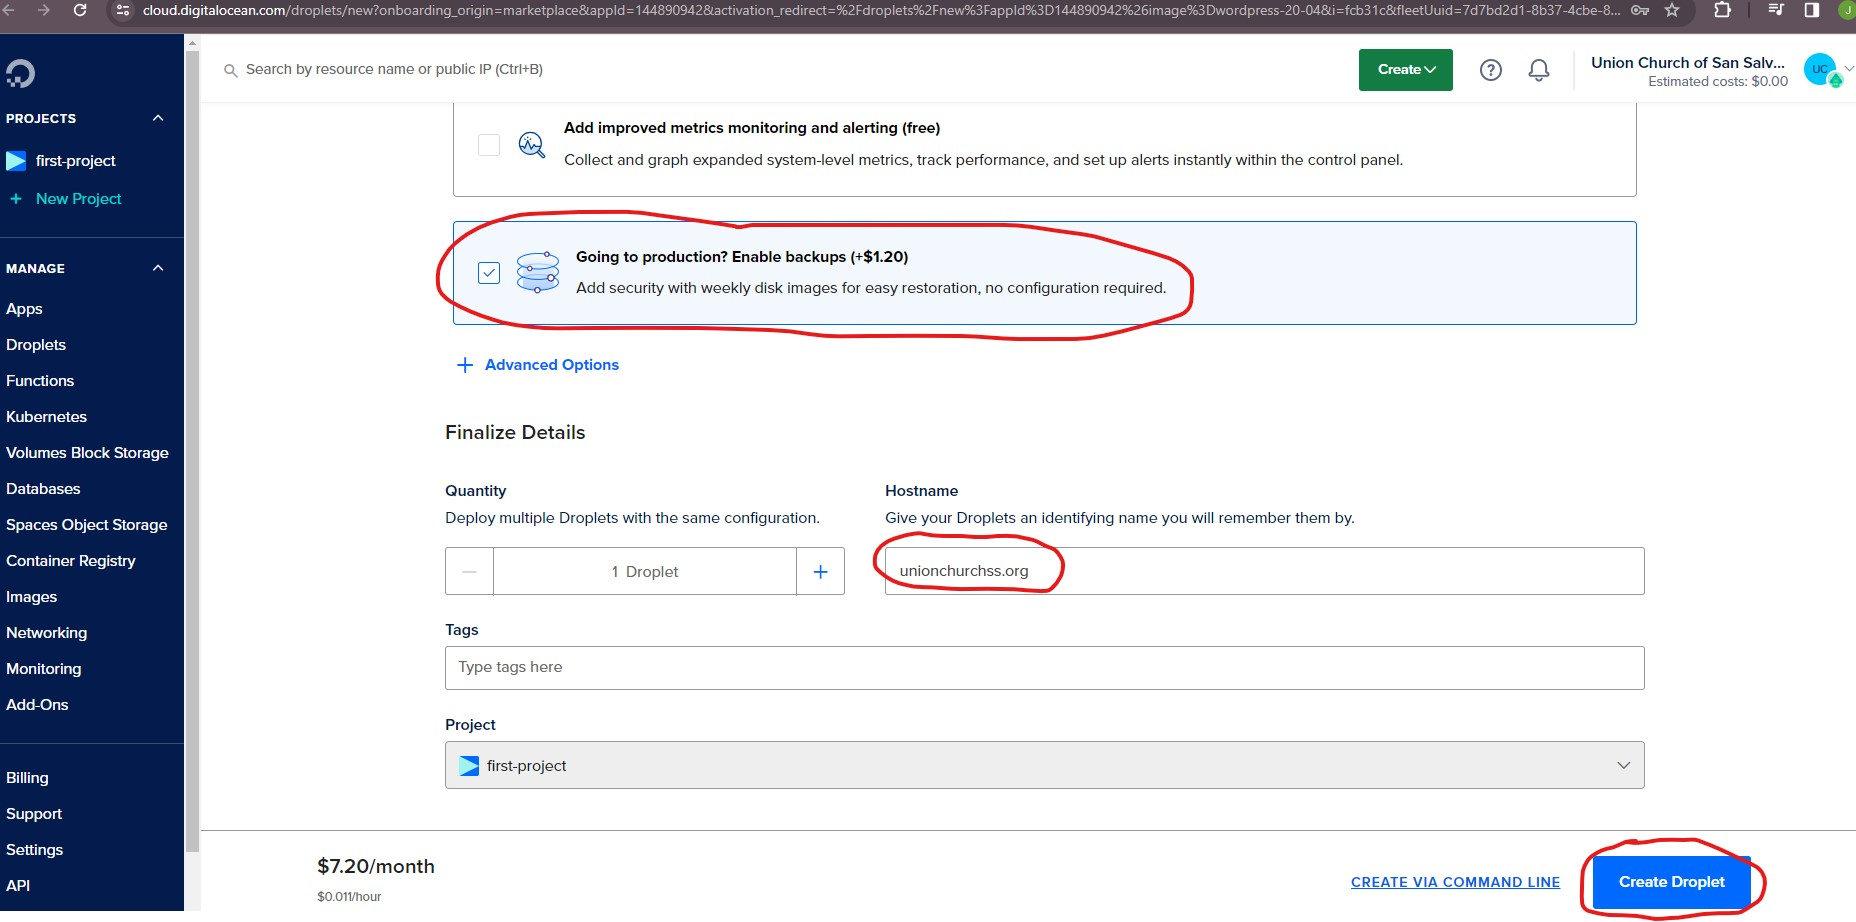
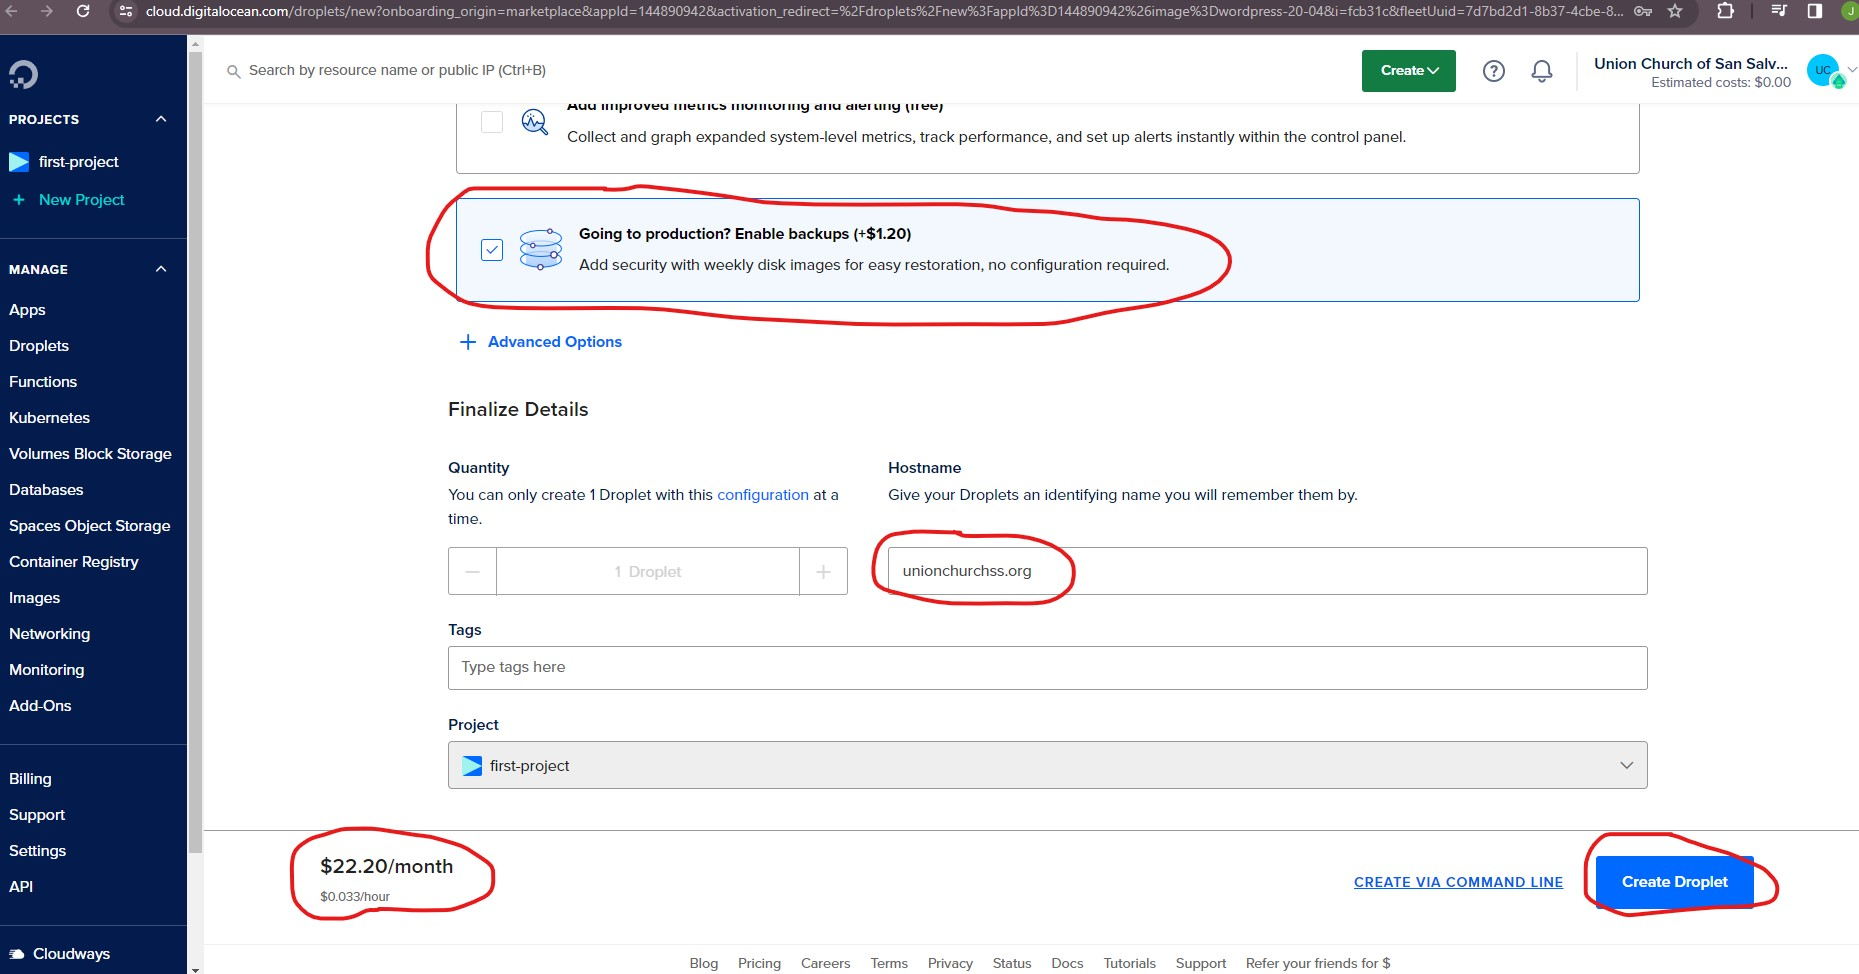
Create Droplet.

diff --git a/blog/2023/12/10/05/59/book-info-20231210-0559.php b/blog/2023/12/10/05/59/book-info-20231210-0559.php
@@ -1,4 +1,4 @@
 <?php
   $index->content .= 
-           "<p>The website unionchurchss.org was hosted on InMotion Hosting. According to <a href=\"https://whois.domaintools.com/unionchurchss.org\">https://whois.domaintools.com/unionchurchss.org</a>, there were \"344 other sites hosted on this server\":</p><div><img src=\"/blog/2023/12/10/05/59/img/inMotionHostingSharedServer.jpg\" alt=\"InMotion Hosting shared server\" width=\"504\" height=\"886\"></div><p>My first step was to use FTP to download WordPress source code and content files hosted on the InMotion Hosting server. I went to my cPanel account at <a href=\"https://secure261.inmotionhosting.com:2083/\">https://secure261.inmotionhosting.com:2083/</a> to obtain my FTP credentials:</p><div><img src=\"/blog/2023/12/10/05/59/img/cPanelLoginScreen.jpg\" alt=\"cPanel login screen\" width=\"546\" height=\"622\"></div><p>This was the first screen after a successful cPanel login:</p><div><img src=\"/blog/2023/12/10/05/59/img/cPanelFirstScreen.jpg\" alt=\"cPanel first screen\" width=\"1851\" height=\"965\"></div><p>I scrolled down to find the FTP Accounts link:</p><div><img src=\"/blog/2023/12/10/05/59/img/ftpAccountsLinkFromcPanel.jpg\" alt=\"FTP Accounts link from cPanel\" width=\"1215\" height=\"976\"></div><p>I found the FTP Username Account that I needed to connect to the server using FTP:</p><div><img src=\"/blog/2023/12/10/05/59/img/ftpUsernameAccountFound.jpg\" alt=\"FTP Username Account found\" width=\"946\" height=\"418\"></div><p>The information above does not specify Host nor the password to connect via FTP. But I found the password from my records of when I created the InMotion Hosting account. For the Host value, I could use either <span class=\"cod\">173.231.209.31</span> (the shared IP address) or <span class=\"cod\">secure261.inmotionhosting.com</span>. That was all I needed to connect to the server using FTP via FileZilla:</p><div><img src=\"/blog/2023/12/10/05/59/img/connectUsingFTPViaFileZilla.jpg\" alt=\"Connect using FTP via FileZilla\" width=\"703\" height=\"97\"></div><p>I clicked OK to the Unknown certificate pop-up message:</p><div><img src=\"/blog/2023/12/10/05/59/img/unknownCertificateFileZillaConnection.jpg\" alt=\"Unknown certificate FileZilla connection\" width=\"705\" height=\"919\"></div><p>My WordPress files on the server were displayed under the <span class=\"cod\">/unionchurchss.org</span> folder:</p><div><img src=\"/blog/2023/12/10/05/59/img/wordPressFilesOnServer.jpg\" alt=\"WordPress files on server\" width=\"1296\" height=\"783\"></div><p>20406 files were transferred successfully:</p><div><img src=\"/blog/2023/12/10/05/59/img/successfulTransfers.jpg\" alt=\"Successful transfers\" width=\"1915\" height=\"1028\"></div><p>The process resulted in 310 failed transfers:</p><div><img src=\"/blog/2023/12/10/05/59/img/failedTransfers.jpg\" alt=\"Successful transfers\" width=\"1919\" height=\"1029\"></div><p>All of the failed transfers are from this directory: <span class=\"cod\">unionchurchss.org&bsol;wp-content&bsol;plugins&bsol;boldgrid-backup-premium&bsol;vendor&bsol;google&bsol;apiclient-services&bsol;src&bsol;Google&bsol;Service&bsol;</span>. I could safely ignore those failed transfers because that was not going to affect what I needed for the functionality of my website.</p><p>The 20,406 downloaded files, together have a size of 5.15 GB:</p><div><img src=\"/blog/2023/12/10/05/59/img/showSizeOfDownloadedFiles.jpg\" alt=\"Show size of downloaded files\" width=\"466\" height=\"580\"></div><p>My next step was to download the MySQL database. From cPanel, I clicked the phpMyAdmin link:</p><div><img src=\"/blog/2023/12/10/05/59/img/clickPhpMyAdmin.jpg\" alt=\"Click phpMyAdmin\" width=\"1053\" height=\"809\"></div><p>That took me to <a href=\"https://secure261.inmotionhosting.com:2083/cpsess9515791293/3rdparty/phpMyAdmin/index.php\">https://secure261.inmotionhosting.com:2083/cpsess9515791293/3rdparty/phpMyAdmin/index.php</a>, where my database was listed as <span class=\"cod\">unionc10_wp96857</span>:</p><div><img src=\"/blog/2023/12/10/05/59/img/showPhpMyAdminInterface.jpg\" alt=\"Show phpMyAdmin interface\" width=\"1913\" height=\"983\"></div><p>This is the list of tables in the database:</p><div><img src=\"/blog/2023/12/10/05/59/img/databaseListOfTables.jpg\" alt=\"Database list of tables\" width=\"213\" height=\"554\"></div><p>I clicked the Databases tab and after that, I clicked the database that I wanted to export:</p><div><img src=\"/blog/2023/12/10/05/59/img/clickDatabaseToExport.jpg\" alt=\"Click database to export\" width=\"1197\" height=\"558\"></div><p>Then I clicked the Export tab:</p><div><img src=\"/blog/2023/12/10/05/59/img/exportDatabase.jpg\" alt=\"Export database\" width=\"1306\" height=\"946\"></div><p>I used the <span class=\"cod\">Quick - display only the minimal options</span> export method and <span class=\"cod\">SQL</span> as the output format. Then I clicked <span class=\"cod\">Export</span>:</p><div><img src=\"/blog/2023/12/10/05/59/img/finalStepsToExportDatabase.jpg\" alt=\"Final steps to export database\" width=\"1721\" height=\"569\"></div><p>The database was downloaded successfully as a <span class=\"cod\">.sql</span> file. Its size was 5.37 MB:</p><div><img src=\"/blog/2023/12/10/05/59/img/databaseDownloadedSuccessfully.jpg\" alt=\"Database downloaded successfully\" width=\"564\" height=\"644\"></div><p>I visited <a href=\"https://digitalocean.com\">https://digitalocean.com</a> and from my account, I clicked <span class=\"cod\">Create a Team</span>:</p><div><img src=\"/blog/2023/12/10/05/59/img/createATeamOnDigitalOcean.jpg\" alt=\"Create a Team\" width=\"268\" height=\"401\"></div><p>I provided the new team information and clicked <span class=\"cod\">Continue</span>:</p><div><img src=\"/blog/2023/12/10/05/59/img/createNewTeam.jpg\" alt=\"Create new team\" width=\"719\" height=\"631\"></div><p>A verification link was sent to the email address I provided:</p><div><img src=\"/blog/2023/12/10/05/59/img/verificationLinkSentToMyEmail.jpg\" alt=\"Create a Team\" width=\"714\" height=\"691\"></div><p>I received a welcome email:</p><div><img src=\"/blog/2023/12/10/05/59/img/digitalOceanWelcomeEmail.jpg\" alt=\"DigitalOcean welcome email\" width=\"1008\" height=\"834\"></div><p>I received a second email with a link to verify my email:</p><div><img src=\"/blog/2023/12/10/05/59/img/verifyEmail.jpg\" alt=\"Verify email\" width=\"1228\" height=\"200\"></div><p>Clicking the link to verify my email address took me to the <span class=\"cod\">Add Payment Method</span> section, where I provided my credit card information.</p><div><img src=\"/blog/2023/12/10/05/59/img/addPaymentMethod.jpg\" alt=\"Add Payment Method\" width=\"1358\" height=\"851\"></div><p>The last step was optional and I decided to skip it for now:</p><div><img src=\"/blog/2023/12/10/05/59/img/inviteMembers.jpg\" alt=\"Invite Members\" width=\"1360\" height=\"788\"></div><p>I was charged $1 as a pre-authorization \"hold\" charge on my card used to verify my card, which will be released within a day or two:</p><div><img src=\"/blog/2023/12/10/05/59/img/digitalOceanVerificationCharge.jpg\" alt=\"Invite Members\" width=\"482\" height=\"29\"></div><p>I visited <a href=\"https://marketplace.digitalocean.com/apps/wordpress\">https://marketplace.digitalocean.com/apps/wordpress</a> and clicked <span class=\"cod\">Create WordPress Droplet</span>:</p><div><img src=\"/blog/2023/12/10/05/59/img/createWordPressDroplet.jpg\" alt=\"Create WordPress Droplet\" width=\"1801\" height=\"963\"></div><p>I chose <span class=\"cod\">Toronto</span> as the Region:</p><div><img src=\"/blog/2023/12/10/05/59/img/chooseTorontoRegion.jpg\" alt=\"Choose Toronto Region\" width=\"1856\" height=\"968\"></div><p>I scrolled down and in the <span class=\"cod\">Choose an image</span> section, I added a MySQL Managed Database for an additional $15.00/month:</p><div><img src=\"/blog/2023/12/10/05/59/img/addMySQLManagedDatabase.jpg\" alt=\"Add MySQL Managed Database\" width=\"1860\" height=\"944\"></div><p>I scrolled down and in the <span class=\"cod\">CPU options</span> section, I chose <span class=\"cod\">Regular Disk type: SSD</span> and <span class=\"cod\">$6 /mo | $0.009 /hour (1 GB / 1 CPU | 25 GB SSD Disk | 1000 GB transfer)</span>:</p><div><img src=\"/blog/2023/12/10/05/59/img/choose6USDOption.jpg\" alt=\"Choose Toronto Region\" width=\"1857\" height=\"941\"></div><p>I scrolled down to the <span class=\"cod\">Choose Authentication Method</span> section and chose <span class=\"cod\">Password - Connect to your Droplet as the \"root\" user via password</span>, where I created my <span class=\"cod\">root</span> password:</p><div><img src=\"/blog/2023/12/10/05/59/img/createRootPassword.jpg\" alt=\"Create root password\" width=\"1857\" height=\"949\"></div><p>I enabled backups for an additional $1.20/month because I was going to production, and gave my Droplet an identifying name that I will remember it by: <span class=\"cod\">unionchurchss.org</span>. Finally, I clicked <span class=\"cod\">Create Droplet</span>:</p><div><img src=\"/blog/2023/12/10/05/59/img/enableBackupsAndCreateDroplet.jpg\" alt=\"Enable backups and create Droplet\" width=\"1856\" height=\"922\"></div><div>Published: 5:59 AM GMT · Dec 10, 2023</div>\n";
+           "<p>The website unionchurchss.org was hosted on InMotion Hosting. According to <a href=\"https://whois.domaintools.com/unionchurchss.org\">https://whois.domaintools.com/unionchurchss.org</a>, there were \"344 other sites hosted on this server\":</p><div><img src=\"/blog/2023/12/10/05/59/img/inMotionHostingSharedServer.jpg\" alt=\"InMotion Hosting shared server\" width=\"504\" height=\"886\"></div><p>My first step was to use FTP to download WordPress source code and content files hosted on the InMotion Hosting server. I went to my cPanel account at <a href=\"https://secure261.inmotionhosting.com:2083/\">https://secure261.inmotionhosting.com:2083/</a> to obtain my FTP credentials:</p><div><img src=\"/blog/2023/12/10/05/59/img/cPanelLoginScreen.jpg\" alt=\"cPanel login screen\" width=\"546\" height=\"622\"></div><p>This was the first screen after a successful cPanel login:</p><div><img src=\"/blog/2023/12/10/05/59/img/cPanelFirstScreen.jpg\" alt=\"cPanel first screen\" width=\"1851\" height=\"965\"></div><p>I scrolled down to find the FTP Accounts link:</p><div><img src=\"/blog/2023/12/10/05/59/img/ftpAccountsLinkFromcPanel.jpg\" alt=\"FTP Accounts link from cPanel\" width=\"1215\" height=\"976\"></div><p>I found the FTP Username Account that I needed to connect to the server using FTP:</p><div><img src=\"/blog/2023/12/10/05/59/img/ftpUsernameAccountFound.jpg\" alt=\"FTP Username Account found\" width=\"946\" height=\"418\"></div><p>The information above does not specify Host nor the password to connect via FTP. But I found the password from my records of when I created the InMotion Hosting account. For the Host value, I could use either <span class=\"cod\">173.231.209.31</span> (the shared IP address) or <span class=\"cod\">secure261.inmotionhosting.com</span>. That was all I needed to connect to the server using FTP via FileZilla:</p><div><img src=\"/blog/2023/12/10/05/59/img/connectUsingFTPViaFileZilla.jpg\" alt=\"Connect using FTP via FileZilla\" width=\"703\" height=\"97\"></div><p>I clicked OK to the Unknown certificate pop-up message:</p><div><img src=\"/blog/2023/12/10/05/59/img/unknownCertificateFileZillaConnection.jpg\" alt=\"Unknown certificate FileZilla connection\" width=\"705\" height=\"919\"></div><p>My WordPress files on the server were displayed under the <span class=\"cod\">/unionchurchss.org</span> folder:</p><div><img src=\"/blog/2023/12/10/05/59/img/wordPressFilesOnServer.jpg\" alt=\"WordPress files on server\" width=\"1296\" height=\"783\"></div><p>20406 files were transferred successfully:</p><div><img src=\"/blog/2023/12/10/05/59/img/successfulTransfers.jpg\" alt=\"Successful transfers\" width=\"1915\" height=\"1028\"></div><p>The process resulted in 310 failed transfers:</p><div><img src=\"/blog/2023/12/10/05/59/img/failedTransfers.jpg\" alt=\"Successful transfers\" width=\"1919\" height=\"1029\"></div><p>All of the failed transfers are from this directory: <span class=\"cod\">unionchurchss.org&bsol;wp-content&bsol;plugins&bsol;boldgrid-backup-premium&bsol;vendor&bsol;google&bsol;apiclient-services&bsol;src&bsol;Google&bsol;Service&bsol;</span>. I could safely ignore those failed transfers because that was not going to affect what I needed for the functionality of my website.</p><p>The 20,406 downloaded files, together have a size of 5.15 GB:</p><div><img src=\"/blog/2023/12/10/05/59/img/showSizeOfDownloadedFiles.jpg\" alt=\"Show size of downloaded files\" width=\"466\" height=\"580\"></div><p>My next step was to download the MySQL database. From cPanel, I clicked the phpMyAdmin link:</p><div><img src=\"/blog/2023/12/10/05/59/img/clickPhpMyAdmin.jpg\" alt=\"Click phpMyAdmin\" width=\"1053\" height=\"809\"></div><p>That took me to <a href=\"https://secure261.inmotionhosting.com:2083/cpsess9515791293/3rdparty/phpMyAdmin/index.php\">https://secure261.inmotionhosting.com:2083/cpsess9515791293/3rdparty/phpMyAdmin/index.php</a>, where my database was listed as <span class=\"cod\">unionc10_wp96857</span>:</p><div><img src=\"/blog/2023/12/10/05/59/img/showPhpMyAdminInterface.jpg\" alt=\"Show phpMyAdmin interface\" width=\"1913\" height=\"983\"></div><p>This is the list of tables in the database:</p><div><img src=\"/blog/2023/12/10/05/59/img/databaseListOfTables.jpg\" alt=\"Database list of tables\" width=\"213\" height=\"554\"></div><p>I clicked the Databases tab and after that, I clicked the database that I wanted to export:</p><div><img src=\"/blog/2023/12/10/05/59/img/clickDatabaseToExport.jpg\" alt=\"Click database to export\" width=\"1197\" height=\"558\"></div><p>Then I clicked the Export tab:</p><div><img src=\"/blog/2023/12/10/05/59/img/exportDatabase.jpg\" alt=\"Export database\" width=\"1306\" height=\"946\"></div><p>I used the <span class=\"cod\">Quick - display only the minimal options</span> export method and <span class=\"cod\">SQL</span> as the output format. Then I clicked <span class=\"cod\">Export</span>:</p><div><img src=\"/blog/2023/12/10/05/59/img/finalStepsToExportDatabase.jpg\" alt=\"Final steps to export database\" width=\"1721\" height=\"569\"></div><p>The database was downloaded successfully as a <span class=\"cod\">.sql</span> file. Its size was 5.37 MB:</p><div><img src=\"/blog/2023/12/10/05/59/img/databaseDownloadedSuccessfully.jpg\" alt=\"Database downloaded successfully\" width=\"564\" height=\"644\"></div><p>I visited <a href=\"https://digitalocean.com\">https://digitalocean.com</a> and from my account, I clicked <span class=\"cod\">Create a Team</span>:</p><div><img src=\"/blog/2023/12/10/05/59/img/createATeamOnDigitalOcean.jpg\" alt=\"Create a Team\" width=\"268\" height=\"401\"></div><p>I provided the new team information and clicked <span class=\"cod\">Continue</span>:</p><div><img src=\"/blog/2023/12/10/05/59/img/createNewTeam.jpg\" alt=\"Create new team\" width=\"719\" height=\"631\"></div><p>A verification link was sent to the email address I provided:</p><div><img src=\"/blog/2023/12/10/05/59/img/verificationLinkSentToMyEmail.jpg\" alt=\"Create a Team\" width=\"714\" height=\"691\"></div><p>I received a welcome email:</p><div><img src=\"/blog/2023/12/10/05/59/img/digitalOceanWelcomeEmail.jpg\" alt=\"DigitalOcean welcome email\" width=\"1008\" height=\"834\"></div><p>I received a second email with a link to verify my email:</p><div><img src=\"/blog/2023/12/10/05/59/img/verifyEmail.jpg\" alt=\"Verify email\" width=\"1228\" height=\"200\"></div><p>Clicking the link to verify my email address took me to the <span class=\"cod\">Add Payment Method</span> section, where I provided my credit card information.</p><div><img src=\"/blog/2023/12/10/05/59/img/addPaymentMethod.jpg\" alt=\"Add Payment Method\" width=\"1358\" height=\"851\"></div><p>The last step was optional and I decided to skip it for now:</p><div><img src=\"/blog/2023/12/10/05/59/img/inviteMembers.jpg\" alt=\"Invite Members\" width=\"1360\" height=\"788\"></div><p>I was charged $1 as a pre-authorization \"hold\" charge on my card used to verify my card, which will be released within a day or two:</p><div><img src=\"/blog/2023/12/10/05/59/img/digitalOceanVerificationCharge.jpg\" alt=\"Invite Members\" width=\"482\" height=\"29\"></div><p>I visited <a href=\"https://marketplace.digitalocean.com/apps/wordpress\">https://marketplace.digitalocean.com/apps/wordpress</a> and clicked <span class=\"cod\">Create WordPress Droplet</span>:</p><div><img src=\"/blog/2023/12/10/05/59/img/createWordPressDroplet.jpg\" alt=\"Create WordPress Droplet\" width=\"1801\" height=\"963\"></div><p>I chose <span class=\"cod\">Toronto</span> as the Region:</p><div><img src=\"/blog/2023/12/10/05/59/img/chooseTorontoRegion.jpg\" alt=\"Choose Toronto Region\" width=\"1856\" height=\"968\"></div><p>I scrolled down and in the <span class=\"cod\">Choose an image</span> section, I added a MySQL Managed Database for an additional $15.00/month:</p><div><img src=\"/blog/2023/12/10/05/59/img/addMySQLManagedDatabase.jpg\" alt=\"Add MySQL Managed Database\" width=\"1860\" height=\"944\"></div><p>I scrolled down and in the <span class=\"cod\">CPU options</span> section, I chose <span class=\"cod\">Regular Disk type: SSD</span> and <span class=\"cod\">$6 /mo | $0.009 /hour (1 GB / 1 CPU | 25 GB SSD Disk | 1000 GB transfer)</span>:</p><div><img src=\"/blog/2023/12/10/05/59/img/choose6USDOption.jpg\" alt=\"Choose Toronto Region\" width=\"1857\" height=\"941\"></div><p>I scrolled down to the <span class=\"cod\">Choose Authentication Method</span> section and chose <span class=\"cod\">Password - Connect to your Droplet as the \"root\" user via password</span>, where I created my <span class=\"cod\">root</span> password:</p><div><img src=\"/blog/2023/12/10/05/59/img/createRootPassword.jpg\" alt=\"Create root password\" width=\"1857\" height=\"949\"></div><p>I enabled backups for an additional $1.20/month because I was going to production, and gave my Droplet an identifying name that I will remember it by: <span class=\"cod\">unionchurchss.org</span>. The price will be $22.20/month or $0.033/hour. Finally, I clicked <span class=\"cod\">Create Droplet</span>:</p><div><img src=\"/blog/2023/12/10/05/59/img/enableBackupsAndCreateDroplet.jpg\" alt=\"Enable backups and create Droplet\" width=\"1859\" height=\"974\"></div><div>Published: 5:59 AM GMT · Dec 10, 2023</div>\n";
 ?>
